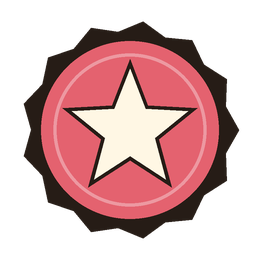
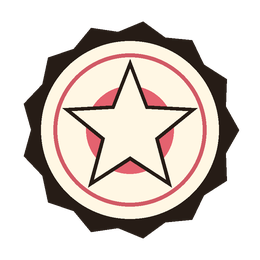
Restore the one-saturated-colour rule; rebake the street with the new kids
palette_check was failing, and on the rule the whole art direction rests
on: exactly one saturated accent, the pink spaldeen.

  ui_pip_star  C* 41.9  — a stat pip, in A.GOLD, which measures 57.7
                          against the ball's own 54.8. The loudest colour
                          on screen was a decoration on a roster card.
  ui_stamp     C* 32.8  — a rosette that spread the ball's pink across a
                          whole disc, out-shouting the ball itself.

Fixed as design decisions rather than by nudging numbers toward a
threshold. The pip is brass, which still reads as struck metal on aged
paper. The rosette is paper with the pink kept to a small centre — the
link to the ball without the competition, and a paper rosette is the more
period-correct object anyway. palette_check now passes.

The baked street also still showed the previous bystander poses, since
art_backdrop.py bakes idle frames into the street PNGs and the character
art was rebuilt underneath it. Rebaked both orientations, and re-measured
the bat against the final art.

FX OK, SMOKE_OK, AUDIO OK, SIM OK (13.8 runs/game, 146 HRs, 3 windows).

Claude-Session: https://claude.ai/code/session_01EAhAdM4K8KttNcwM1gG72N

Changed region(s): [[0.1538, 0.1538, 0.8615, 0.8615]]

diff --git a/threesewers/tools/art_ui.py b/threesewers/tools/art_ui.py
@@ -656,11 +656,19 @@ def _shelf(w=320, h=110, ss=SS):
     return A.finish(c, ink=0, light=False, grain_amt=4, seed=31)
 
 
+BRASS = (168, 140, 96)   # a gold that does not out-shout the ball
+
+
 def _stamp(size=260, ss=SS):
     """The rosette that lands on a card you have taken.
 
-    No type: at rack size a word would be a smudge, so it is a cut-paper star
-    on the spaldeen's pink — the one place that colour is allowed to spread.
+    No type: at rack size a word would be a smudge, so it is a cut-paper star.
+
+    It used to be a field of the spaldeen's pink, which measured LOUDER than
+    the ball itself (C* 32.8 against 31.1) and so broke the one rule the whole
+    palette is built on. It is paper now, with the pink kept to a small centre
+    — the link to the ball without the competition. A paper rosette is the
+    more period-correct object anyway.
     """
     c = A.Canvas(size, size, ss)
     r = size * 0.42
@@ -670,10 +678,11 @@ def _stamp(size=260, ss=SS):
         rr = r if k % 2 == 0 else r * 0.905
         pts.append((size / 2 + math.cos(ang) * rr, size / 2 + math.sin(ang) * rr))
     c.poly(pts, fill=INK)
-    c.circle(size / 2, size / 2, r * 0.86, fill=PINK)
+    c.circle(size / 2, size / 2, r * 0.86, fill=CHALK)
     c.circle(size / 2, size / 2, r * 0.86, outline=INK, width=size * 0.020)
-    c.circle(size / 2, size / 2, r * 0.70, outline=shade(PINK, 1.35),
-             width=size * 0.013)
+    c.circle(size / 2, size / 2, r * 0.70, outline=shade(PINK, 0.92),
+             width=size * 0.016)
+    c.circle(size / 2, size / 2, r * 0.40, fill=PINK)
     star = []
     for k in range(10):
         ang = -math.pi / 2 + k * math.pi / 5
@@ -838,9 +847,12 @@ def build_hud(outdir):
             pts.append((36 + math.cos(ang) * r, 36 + math.sin(ang) * r))
         grown = [(36 + (x - 36) * 1.18, 36 + (y - 36) * 1.18) for x, y in pts]
         p.poly(grown, fill=INK)
-        p.poly(pts, fill=A.GOLD)
+        # Brass, not gold: A.GOLD measures C* 57.7 against the spaldeen's 54.8,
+        # so a stat pip was the loudest colour on a screen whose entire rule is
+        # that the ball is. Brass still reads as struck metal on aged paper.
+        p.poly(pts, fill=BRASS)
         inner = [(36 + (x - 36) * 0.55, 36 + (y - 36) * 0.55 - 2) for x, y in pts]
-        p.poly(inner, fill=shade(A.GOLD, 1.14))
+        p.poly(inner, fill=shade(BRASS, 1.16))
         return A.finish(p, ink=0, light=False)
 
     def pip_out():
